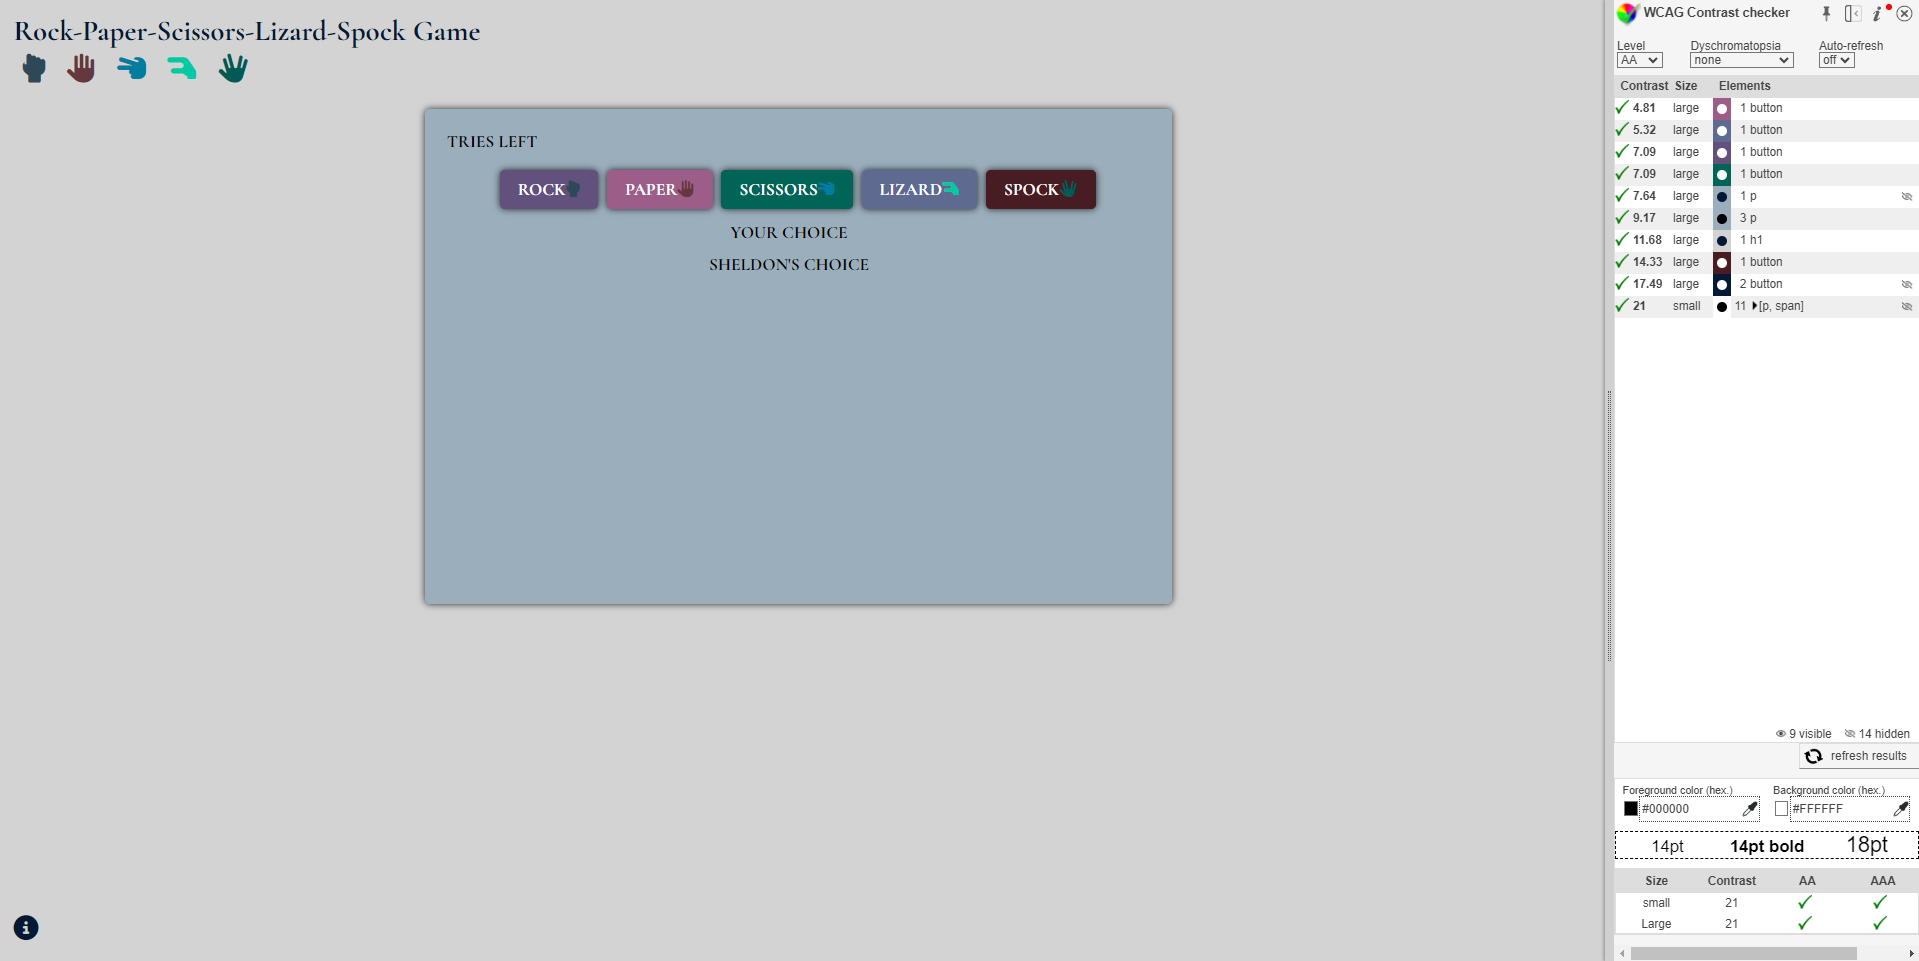
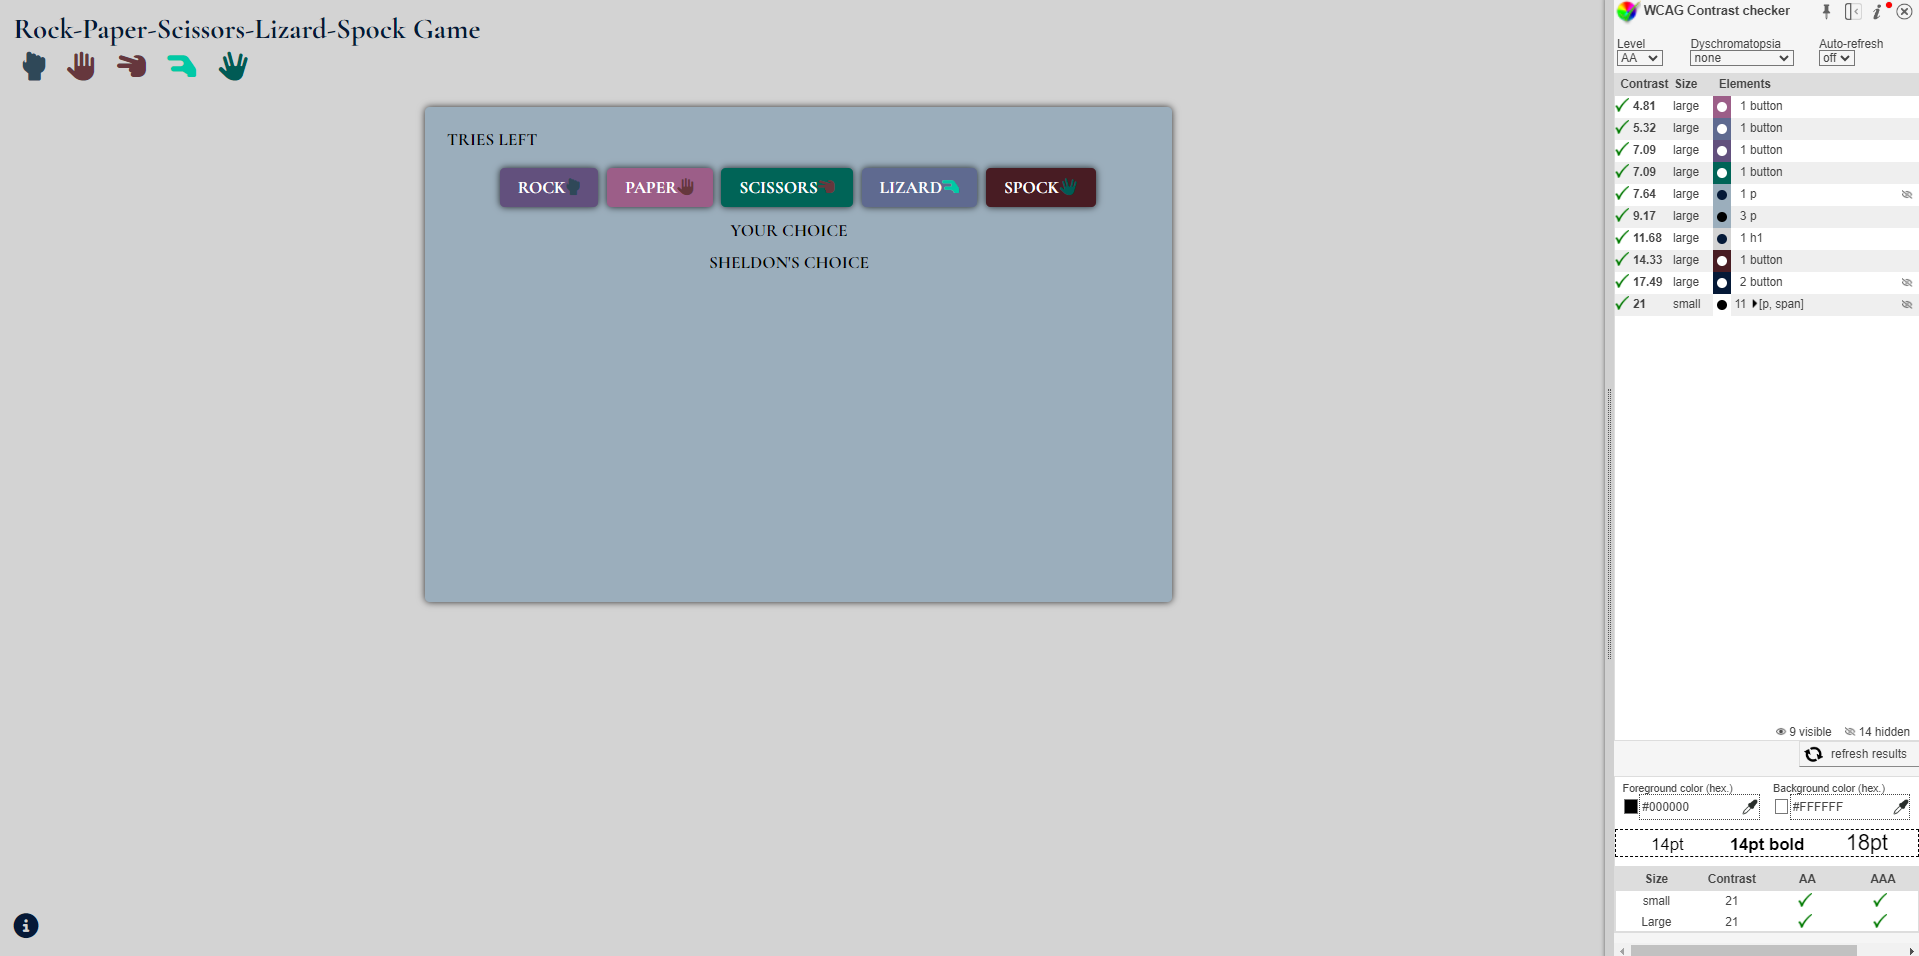
Delete old screenshots and upload up-to-date for choice-buttons, footer, wcag report

diff --git a/README.md b/README.md
@@ -32,8 +32,6 @@ The Rock-Paper-Scissors-Lizard-Spock Game offers several key features for its us
 
 ### Existing Features
 
-___
-
 __Welcome Message:__
 
 When a user starts a game, the first they see is a welcome message and a start button. This area serves as an entry point, welcoming users to the game and offering them a clear starting point, enhancing user experience. The user can start a game after pressing the start button.
@@ -121,8 +119,6 @@ ___
 
 I conducted the following testing:
 
-___
-
 __Functionality Testing:__
 
 - Verified that all functionality works
@@ -140,10 +136,12 @@ __Compatibility Testing:__
 
 - I tested this game playing in different browsers - Chrome, Firefox, Edge
 - I tested this game playing on desktop and mobile, Windows and Android
+
 ___
 __Accessibility Testing:__
 
 - Ensured the buttons have aria-label
+
 ___
 __Performance Testing:__
 
@@ -175,6 +173,7 @@ __The bugs left to fix__
 
 No unfixed bugs.
 ___
+
 ## Validator Testing
 
 HTML: No errors were found when passing through the W3C validator.
@@ -186,6 +185,7 @@ CSS: No errors were found when passing through the Jigsaw validator.
 JSHint JavaScript Validator: No critical errors were found when passing through the JSHint.
 ![CSS Validator](readme-media/jshint.png)
 ___
+
 ## Deployment
 
 The site was deployed to GitHub pages.
@@ -199,9 +199,9 @@ ___
 ## Credits
 
 Colors were generated at [MyColor Space](https://mycolor.space/?hex=%2331809A&sub=1) and were chosen randomly.
-Favicon was downloaded at [Icons8](https://icons8.com/icons/set/choice)
-Icons were downloaded from [Fontawesome](https://fontawesome.com/search)
-To check grammar and edit text, I used [Grammarly](https://app.grammarly.com/)
+Favicon was downloaded at [Icons8](https://icons8.com/icons/set/choice).
+Icons were downloaded from [Fontawesome](https://fontawesome.com/search).
+To check grammar and edit text, I used [Grammarly](https://app.grammarly.com/).
 I referenced the Love Maths project as a guide and Ultimate Rock Paper Scissors.
-Game rules were copied from [The Big Bang Theory Wiki](https://bigbangtheory.fandom.com/wiki/Rock,_Paper,_Scissors,_Lizard,_Spock)
-The work I referenced for inspiration was from [CodePen]( https://codepen.io/763004/pen/pPGGyP)
+Game rules were copied from [The Big Bang Theory Wiki](https://bigbangtheory.fandom.com/wiki/Rock,_Paper,_Scissors,_Lizard,_Spock).
+The work I referenced for inspiration was from [CodePen]( https://codepen.io/763004/pen/pPGGyP).
